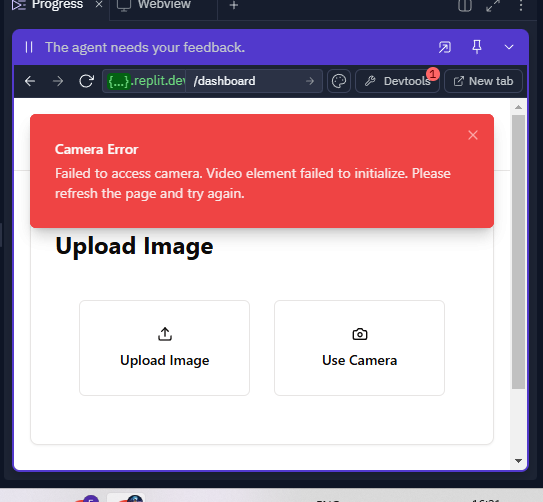
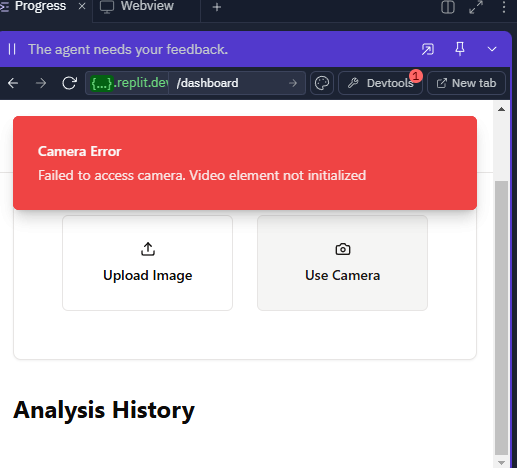
Agent query: Please try the camera again. The component should now handle initialization more reliably.
Improve camera access handling and add robust error messages.

Screenshot: https://storage.googleapis.com/screenshot-production-us-central1/542788b3-7641-4b1f-a472-fb03727e4f28/4d79ca48-f361-4dc3-9bf0-aa9fe346a79e.jpg

diff --git a/client/src/components/ImageUpload.tsx b/client/src/components/ImageUpload.tsx
@@ -10,18 +10,31 @@ export default function ImageUpload() {
   const [isUploading, setIsUploading] = useState(false);
   const [progress, setProgress] = useState(0);
   const [isCameraActive, setIsCameraActive] = useState(false);
+  const [isMounted, setIsMounted] = useState(false);
   const videoRef = useRef<HTMLVideoElement>(null);
   const { toast } = useToast();
 
+  // Handle component mounting
   useEffect(() => {
-    // Cleanup on unmount
+    setIsMounted(true);
     return () => {
-      if (videoRef.current && videoRef.current.srcObject) {
+      setIsMounted(false);
+      // Cleanup camera stream
+      if (videoRef.current?.srcObject) {
         const stream = videoRef.current.srcObject as MediaStream;
         stream.getTracks().forEach(track => track.stop());
       }
     };
   }, []);
+
+  // Pre-initialize video element
+  useEffect(() => {
+    if (isMounted && videoRef.current) {
+      videoRef.current.playsInline = true;
+      videoRef.current.muted = true;
+      console.log("Video element pre-initialized");
+    }
+  }, [isMounted]);
 
   const handleImageSelect = (file: File) => {
     // Validate file type
@@ -52,29 +65,57 @@ export default function ImageUpload() {
   };
 
   const startCamera = async () => {
+    if (!isMounted) {
+      console.log("Component not mounted yet");
+      return;
+    }
+
     try {
-      // Stop any existing stream
-      if (videoRef.current?.srcObject) {
-        const stream = videoRef.current.srcObject as MediaStream;
-        stream.getTracks().forEach(track => track.stop());
+      // Verify video element is available
+      if (!videoRef.current) {
+        throw new Error("Video element not available. Please try refreshing the page.");
       }
 
-      // Simple initialization with basic constraints
+      // Check if browser supports mediaDevices
+      if (!navigator.mediaDevices?.getUserMedia) {
+        throw new Error("Camera API not supported in this browser");
+      }
+
+      // Stop any existing streams
+      if (videoRef.current.srcObject) {
+        const existingStream = videoRef.current.srcObject as MediaStream;
+        existingStream.getTracks().forEach(track => track.stop());
+        videoRef.current.srcObject = null;
+      }
+
+      console.log("Requesting camera access...");
       const stream = await navigator.mediaDevices.getUserMedia({
         video: {
           width: { ideal: 1280 },
           height: { ideal: 720 },
+          frameRate: { ideal: 30 },
           facingMode: 'environment' // Prefer external/rear camera
         }
       });
 
+      // Double check video element is still available
       if (!videoRef.current) {
-        throw new Error("Video element not initialized");
+        stream.getTracks().forEach(track => track.stop());
+        throw new Error("Video element lost during initialization");
       }
 
+      // Attach stream and start playback
       videoRef.current.srcObject = stream;
-      await videoRef.current.play();
-      setIsCameraActive(true);
+      console.log("Stream attached to video element");
+
+      try {
+        await videoRef.current.play();
+        console.log("Video playback started");
+        setIsCameraActive(true);
+      } catch (playError) {
+        stream.getTracks().forEach(track => track.stop());
+        throw new Error("Failed to start video playback: " + (playError as Error).message);
+      }
 
     } catch (error) {
       console.error('Camera error:', error);
@@ -82,20 +123,23 @@ export default function ImageUpload() {
       
       if (error instanceof Error) {
         if (error.name === 'NotAllowedError') {
-          message += "Please grant camera permissions.";
+          message = "Camera access denied. Please grant camera permissions in your browser settings.";
         } else if (error.name === 'NotFoundError') {
-          message += "No camera found. Please check your connection.";
+          message = "No camera detected. Please ensure your USB camera is properly connected.";
         } else if (error.name === 'NotReadableError') {
-          message += "Camera is in use by another application.";
+          message = "Cannot access camera. Please ensure it's not in use by another application.";
+        } else if (error.name === 'OverconstrainedError') {
+          message = "Camera doesn't support requested settings. Please try again.";
         } else {
-          message += error.message;
+          message = error.message;
         }
       }
 
       toast({
         variant: "destructive",
         title: "Camera Error",
-        description: message
+        description: message,
+        duration: 5000
       });
       setIsCameraActive(false);
     }
